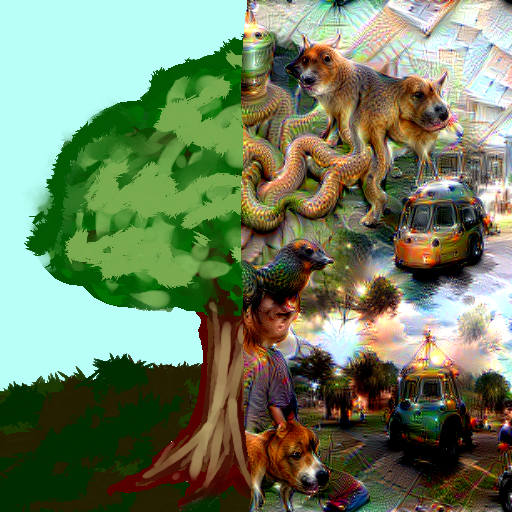
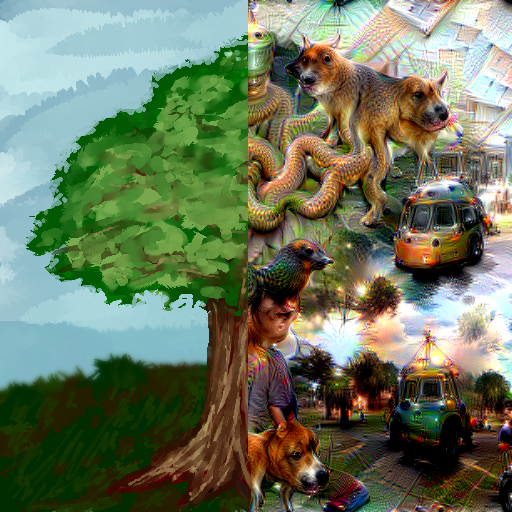
Documentation and examples, minor fixes
- Polished documentation text, filled in missing examples
- Improved manually drawn generator example image
- Minor bugfixes to free selectoin and brush tools, identifying more
  issues to fix

Changed region(s): [[0.0, 0.0, 0.5, 1.0], [0.125, 0.9688, 0.1875, 1.0]]

diff --git a/src/image/brush/qt_paint_brush.py b/src/image/brush/qt_paint_brush.py
@@ -133,7 +133,7 @@ class QtPaintBrush(LayerBrush):
         painter.setOpacity(opacity)
         pen = QPen(color, size, Qt.PenStyle.SolidLine, Qt.PenCapStyle.RoundCap, Qt.PenJoinStyle.RoundJoin)
         painter.setPen(pen)
-        if hardness < 1.0 and round(size * hardness) < size:
+        if hardness < 1.0 and round(size - (size * hardness)) > 0:
             min_size = size * hardness
             size_range = round(size - min_size)
             painter.setCompositionMode(QPainter.CompositionMode.CompositionMode_Source)

diff --git a/src/tools/free_selection_tool.py b/src/tools/free_selection_tool.py
@@ -96,6 +96,7 @@ class FreeSelectionTool(BaseTool):
         layer_pos = layer.transformed_bounds.topLeft()
         bounds = polygon.boundingRect().toAlignedRect()
         bounds.translate(-layer_pos.x(), -layer_pos.y())
+        bounds = bounds.intersected(layer.bounds)
         with layer.borrow_image(bounds) as selection_img:
             painter = QPainter(selection_img)
             if self._clearing:

diff --git a/README.md b/README.md
@@ -1,62 +1,68 @@
 ![IntraPaint_banner.jpg](./resources/IntraPaint_banner.jpg)  
 
-IntraPaint is a free and open source image editor with integrated AI image generation support, for Linux, Windows, and macOS.
+**IntraPaint** is a free and open-source image editor for desktop PCs. It combines standard digital painting
+and image editing tools with advanced AI-based features, including image generation and inpainting. IntraPaint bridges
+the gap between traditional digital editing and AI-driven workflows, combining the precision of manual techniques with
+the efficiency of AI tools for a more seamless creative process. IntraPaint is available for Windows and Linux. macOS
+support is possible with manual setup and compilation.
 
-## Goals:
-- Combine standard image editing and digital painting tools with AI image generation and inpainting tools. Make it
-  easier for established artists to integrate AI into their workflow, and for AI enthusiasts to adopt more traditional
-  image editing tools and gain finer control over the images they create.
+## Getting Started with IntraPaint:
 
-## Features:
+
+|        ![example-1.png](./examples/example-1.png)        |      ![example-2.png](./examples/example-2.png)       | 
+|:--------------------------------------------------------:|:-----------------------------------------------------:| 
+|       *1. Draw and paint with conventional tools*        | *2. Select areas for AI editing and provide a prompt* |
+
+
+| ![example-3.png](./examples/example-3.png) | ![example-4.png](./examples/example-4.png) | 
+|:------------------------------------------:|:------------------------------------------:| 
+|     *3. Choose from generated options*     |     *4. Refine and repeat as needed.*      |
+
+
+## Key Features:
 
 ### AI image generation features:
-- Uses Stable-Diffusion, either running on the same machine or remotely over a network connection, via the --api option
-  in either [Forge WebUI](https://github.com/lllyasviel/stable-diffusion-webui-forge) or the [Automatic1111 WebUI](https://github.com/AUTOMATIC1111/stable-diffusion-webui).
-- All AI features areSupports either completely new image generation (text to image), generating variant images (image to image), or 
-  precise detail editing (inpainting), guided by natural-language descriptive prompts and various configurable
-  parameters.
-- Use ControlNet modules for more advanced AI guidance features (depth mapping, recoloring, pose duplication, etc.)
-- Support for AI upscaling using stable-diffusion + ControlNet or through a bunch of different alternate models.
-- Image interrogation to generate a prompt to describe any image.
+- Integrates with Stable-Diffusion, running locally or remotely (via API) using [Forge WebUI](https://github.com/lllyasviel/stable-diffusion-webui-forge) or [Automatic1111 WebUI](https://github.com/AUTOMATIC1111/stable-diffusion-webui).
+- Supports **text-to-image**, **image-to-image**, and **inpainting**, allowing users to generate new images, refine existing ones, or apply specific edits using natural language prompts.
+- Advanced AI guidance through **ControlNet modules**, enabling features like depth mapping, recoloring, pose replication, and more.
+- **AI upscaling** via Stable-Diffusion + ControlNet or other specialized models.
 
 
-### Standard raster editing features:
-- All AI features are optional, IntraPaint still functions like standard image editing software when AI is disabled.
-- Full-featured layer stack, with support for all the usual features: layer transformations, layer groups, advanced
-  composition and blending modes, etc.
-- Digital painting using the [libmypaint](https://github.com/mypaint/libmypaint) brush engine, full support for drawing
-  tablets.
-- All the usual tools you'd expect: selection, text editing, paint bucket, filters, etc.
+### Traditional Image Editing Tools:
+- Full-featured layer stack with advanced blending modes, layer groups, and transformations.
+- Digital painting capabilities powered by the [libmypaint](https://github.com/mypaint/libmypaint) brush engine, with
+- full support for pressure-sensitive drawing tablets.
+- Standard tools such as selection, text editing, paint bucket, filters, and more are available even when AI features are disabled.
 
-### What can you do with this combination?
-Benefit from partial automation: you draw the parts that you want to draw, let image generation take care of the parts
-that you don't want to do. Quickly explore alternatives.
+### Why Combine AI and Traditional Tools?
+- Automate repetitive tasks: Focus on drawing what matters to you, and let the AI handle the rest.
+- Explore creative alternatives: Quickly iterate on multiple ideas without manually creating each variation.
 
-|                                                                                                                                                   |                                                                                                                                                                                       |                                                                                                                |
-|---------------------------------------------------------------------------------------------------------------------------------------------------|---------------------------------------------------------------------------------------------------------------------------------------------------------------------------------------|----------------------------------------------------------------------------------------------------------------|
-| Quickly refine sketches                                                                                                                           | Clean up and color line art                                                                                                                                                           | "Stanford bunny, \[text in image frame below\]"                                                                 |
-|![An extremely rough sketch of a person walking down a road under a sunset on the left, a more detailed AI-refined version on the right.](./examples/sketch_example.jpg)  | ![A black and white stylized drawing of a dense city, animated to transition to a colored version of the same image](examples/color_example.webp)                                     | ![Animation showing a simple drawing alternating between many different styles](./examples/style_example.webp) |
-| "A small figure walking down a road under a massive cloudy sky, billowing clouds, sunset, fiery fields, god rays, sun"                            | "organic sprawling colorful city, ultra dense, gigantic twisted textured detailed realistic climbing vines, pareidolia, stained glass, blue sky, billowing clouds, runes and symbols" | Experiment with alternate styles.                                                                              |
+|                                                                                                                                                                          |                                                                                                                                                                                               |                                                                                                                |
+|--------------------------------------------------------------------------------------------------------------------------------------------------------------------------|-----------------------------------------------------------------------------------------------------------------------------------------------------------------------------------------------|----------------------------------------------------------------------------------------------------------------|
+| Quickly refine sketches                                                                                                                                                  | Clean up and color line art                                                                                                                                                                   | Experiment with different styles.                                                                              |
+| ![An extremely rough sketch of a person walking down a road under a sunset on the left, a more detailed AI-refined version on the right.](./examples/sketch_example.jpg) | ![A black and white stylized drawing of a dense city, animated to transition to a colored version of the same image](examples/color_example.webp)                                             | ![Animation showing a simple drawing alternating between many different styles](./examples/style_example.webp) |
+| Prompt: "A small figure walking down a road under a massive cloudy sky, billowing clouds, sunset, fiery fields, god rays, sun"                                           | Prompt: "organic sprawling colorful city, ultra dense, gigantic twisted textured detailed realistic climbing vines, pareidolia, stained glass, blue sky, billowing clouds, runes and symbols" | Prompt: "Stanford bunny, \[text in image frame above\]"                                                        |
 
-Control image generation visually. No complex prompts needed, scribble in rough art, describe it briefly, and let Stable-Diffusion figure out the details you want from visual cues.
+Control image generation visually by providing rough sketches and brief descriptions, letting Stable-Diffusion handle the rest.
 
 Prompt: "on the left, a red lizard with a yellow hat standing on a green pillar in an orange desert under a blue sky, looking at a silver robot in a cowboy hat on the right "
 
 |                                                                                                                              |                                                                                                                                                                      |                                                                                                                          |
 |------------------------------------------------------------------------------------------------------------------------------|----------------------------------------------------------------------------------------------------------------------------------------------------------------------|--------------------------------------------------------------------------------------------------------------------------|
 | ![Fully AI generated image of a robot and a lizard in a desert. The image is oddly arranged.](./examples/comp_example_1.jpg) | ![A simple human-made digital drawing of the lizard and robot. Details are rough, but the image is much more accurate to the prompt.](./examples/comp_example_2.jpg) | ![An image combining the detail of the first example with the composition of the second.](./examples/comp_example_3.jpg) |
-| AI does okay with details, but struggles with combining them correctly in complex arrangements.                              | A human artist can easily get the composition right, but similar details require lots of time and practice.                                                          | IntraPaint drawing plus AI inpainting gives you the best of both with minimal hassle.                                    |
+| AI-generated image showcasing polished details but with spatial confusion between the lizard and the robot, blending traits and causing visual mixups between subjects.         | A manually drawn scene, offering clear and precise subject placement with no mixups, but lacking the fine detail and polish of the AI-generated version.                                                        | A hybrid approach, combining manual precision with AI enhancements for detailed, coherent subjects and a balanced result  |
 
-Generate images with levels of detail and precision far higher than unguided image generation allows.
+Generate images with greater detail and precision by using guided inpainting to enhance specific areas.
 
-|                                                                            |                                                  |                                                |
-|----------------------------------------------------------------------------|--------------------------------------------------|------------------------------------------------|
-| IMG: Huge empty canvas, partial landscape over tiles                       | GIF: refining details, selecting generated items | GIF: Sweep from low to high detail             |
-| Generate images piece by piece to avoid image generation size restrictions | Use guided inpainting to refine small details    | Final results are dramatically higher quality. |
+|                                                                                                                                                          |                                                                                                                                                                    |                                                                                                                                                  |
+|----------------------------------------------------------------------------------------------------------------------------------------------------------|--------------------------------------------------------------------------------------------------------------------------------------------------------------------|--------------------------------------------------------------------------------------------------------------------------------------------------|
+| ![Faded image of a city landscape with incongruous library elements, incomplete, visible within the IntraPaint UI.](./examples/example-modularity-1.png) | ![Close-up detail from the previous image, animated, poor quality distorted buildings become polished and smoothly rendered](./examples/example-modularity-2.webp) | ![Image of the same city with incongruous library elements, now completed, displayed in the IntraPaint UI.](./examples/example-modularity-3.png) |
+| Avoid size restrictions by generating images in segments                                                                            | Refine small details with guided inpainting                                                                                                                  | Final results are dramatically higher quality.                                                                                                   |
 
 
 ### More examples:
-All the images below were created using IntraPaint:
+All images below were created using IntraPaint:
 <table>
     <tr>
         <td colspan="1" rowspan="1">
@@ -118,14 +124,14 @@ All the images below were created using IntraPaint:
 </table>
 
 
-### Setup and install:
+### Installation and Setup:
 
 #### Pre-packaged builds:
-Windows and Linux users (x86_64) can download a pre-packaged version of IntraPaint from the releases page:
-- Windows: https://github.com/centuryglass/IntraPaint/releases/download/v0.2.0-alpha/IntraPaint.exe
-- Linux: https://github.com/centuryglass/IntraPaint/releases/download/v0.2.0-alpha/IntraPaint-linux
+Pre-compiled versions for x86_64 Linux and Windows are available on the [releases page](Pre-compiled versions for x86_64 Linux and Windows are available on the releases page.).
+- Windows: [IntraPaint.exe](https://github.com/centuryglass/IntraPaint/releases/download/v0.2.0-alpha/IntraPaint.exe)
+- Linux: [IntraPaint-linux](https://github.com/centuryglass/IntraPaint/releases/download/v0.2.0-alpha/IntraPaint-linux)
 
-This version requires no setup or installation in order to use non-AI features, just run it directly.
+No installation is required to use non-AI features. Just run the executable directly.
 
 #### Install from GitHub:
 On other systems, you will need to use git and python to install IntraPaint.  Make sure you have git, python 3.9 or
@@ -141,11 +147,11 @@ python IntraPaint.py
 ```
 
 
-#### Stable-Diffusion setup:
-For AI image generation features, you will need to install a Stable-Diffusion client (either [Forge WebUI](https://github.com/lllyasviel/stable-diffusion-webui-forge) or the
-[Automatic1111 WebUI](https://github.com/AUTOMATIC1111/stable-diffusion-webui)), and run it with the `--api` flag.  The easiest way to do this is to install [Stability Matrix](https://github.com/LykosAI/StabilityMatrix).
+#### AI Setup (Stable-Diffusion):
+To use AI features, you'll need a running Stable-Diffusion client (either [Forge WebUI](https://github.com/lllyasviel/stable-diffusion-webui-forge) or the
+[Automatic1111 WebUI](https://github.com/AUTOMATIC1111/stable-diffusion-webui)) with API access enabled.  The simplest method for getting this is through. [Stability Matrix](https://github.com/LykosAI/StabilityMatrix).
 
-1. Install the appropriate version of Stability Matrix for your system:
+1. Download and install Stability Matrix for your system:
    * [Windows 10, 11](https://github.com/LykosAI/StabilityMatrix/releases/latest/download/StabilityMatrix-win-x64.zip)
    * [Linux AppImage](https://github.com/LykosAI/StabilityMatrix/releases/latest/download/StabilityMatrix-linux-x64.zip)
    * [Arch Linux AUR](https://aur.archlinux.org/packages/stabilitymatrix)
@@ -158,20 +164,20 @@ For AI image generation features, you will need to install a Stable-Diffusion cl
 
 ### Guides and tutorials
 
-### IntraPaint-specific:
-- [Tools](./doc/tools.md): A brief overview of IntraPaint's image editing tools.
-- [Stable-Diffusion Controls](./doc/stable-diffusion.md): Descriptions of all Stable-Diffusion controls available in IntraPaint.
+### IntraPaint Documentation:
+- [Tools Overview](./doc/tools.md)
+- [Stable-Diffusion Controls](./doc/stable-diffusion.md)
 
-### Stable-Diffusion, ControlNet:
-I didn't create any of these resources.
+### Related Resources
+These are third-party resources that I've found useful, I did not create or contribute to them.
 
-- [The Ultimate Guide to ControlNet](https://education.civitai.com/civitai-guide-to-controlnet/#what-do-the-models-do): An extremely useful overview of ControlNet's vast capabilities.
+- [The Ultimate Guide to ControlNet](https://education.civitai.com/civitai-guide-to-controlnet/#what-do-the-models-do): An in-depth overview of ControlNet's capabilities.
 - [Stable Diffusion Samplers: A Comprehensive Guide](https://stable-diffusion-art.com/samplers/): Explains what the difference between Euler A/DPM++/UniPC/etc. is, and why you might want to choose any particular option.
 - [Automatic1111 WebUI Features](https://github.com/AUTOMATIC1111/stable-diffusion-webui/wiki/Features): All prompt-related features listed here will work within IntraPaint. 
 
 ### Help and Troubleshooting:
 
-#### Q: Why can't I see the brush tool?
+#### Q: Why isn't the brush tool visible?
 
 On systems other than 64-bit Linux and Windows, the brush tool may not work, because you will need a system-specific
 build of the libmypaint brush engine library.  If pre-packaged libmypaint versions can't be used, IntraPaint will try
@@ -181,7 +187,6 @@ If you need help locating libmypaint files for a particular system, open a GitHu
 #### Q: Where are the ControlNet options?
 
 The ControlNet panel only appears if the WebUI backend has a working ControlNet extension installed with API support.
-Unfortunately, this requires some extra configuration in both Forge and Automatic1111 right now.
 
 *If using WebUI Forge*:  The most recent version of the Forge WebUI (as of 8/30/24) does not have a working ControlNet
 API. Use Git to revert to commit `bfee03d8`, or install the [v0.0.17 release](https://github.com/lllyasviel/stable-diffusion-webui-forge/releases/download/previous/webui_forge_cu121_torch21_f0017.7z).
@@ -189,16 +194,9 @@ API. Use Git to revert to commit `bfee03d8`, or install the [v0.0.17 release](ht
 *If using the Automatic1111 WebUI*: The ControlNet panel only appears after you've installed the sd-webui-controlnet 
 extension.  Installation instructions and links to required ControlNet model files can be found [here](https://github.com/Mikubill/sd-webui-controlnet).
 
-#### Q: How do I use alternate Stable-Diffusion models?
-
-Any Stable-Diffusion model supported by the WebUI will work with IntraPaint.  If you drag and drop a Stable-Diffusion
-model file into the WebUI Stable-Diffusion model directory, you will be able to load it in the IntraPaint settings
-
 ### Alternatives:
-- The [Krita AI Plugin](https://github.com/Acly/krita-ai-diffusion) has almost the same set of goals as this project, and accomplishes them admirably. If you already use [Krita](https://krita-artists.org/) or [ComfyUI](https://github.com/comfyanonymous/ComfyUI), this might be a better fit for you.  This is the only item on this list that I've personally tested.
+- The [Krita AI Plugin](https://github.com/Acly/krita-ai-diffusion) shares many of the same goals as IntraPaint and executes them very well. If you already use [Krita](https://krita-artists.org/) or [ComfyUI](https://github.com/comfyanonymous/ComfyUI), this could be a great option for you.  This is the only item on this list that I've personally tested.
 - Several plugins exist for [GIMP](https://www.gimp.org/) with similar functionality:
   * [Stable-Gimpfusion](https://github.com/ArtBIT/stable-gimpfusion)
   * [gimp-stable-diffusion](https://github.com/blueturtleai/gimp-stable-diffusion)
   * [Stable Boy](https://github.com/thndrbrrr/gimp-stable-boy)
-
-If you know of any other projects with similar goals that you think are worth mentioning, let me know, and I'll add them to the list.

diff --git a/doc/TODO.md b/doc/TODO.md
@@ -4,9 +4,22 @@
 - Finish README cleanup and examples (< 1 day)
 - Basic workflow tutorials (< 1 day)
 - Final timelapse video (< 5 days)
+- Upscale: make new layer, scale up existing layers
 
 ## More bugs + testing:
 - Double-check lock and parent group lock properly block changes
+- Save fails silently on missing extension, a warning should appear
+- shape type dropdown isn't updating
+- color dialog has no effect on shape tool
+- ctrl shouldn't break tools if you're already dragging
+- Blur filter doing some strange things when trying to blur lineart over alpha, other filters not much better
+- partial hardness plus pressure=size is causing dropped strokes (better min. handling needed?)
+- merge into hidden errors say that the base layer is locked, use different messages for locked and hidden
+- fill tool should be blocked on hidden layers
+- add 'sample merged' option to smudge and filter tools
+- smudge tool: something's not right with small brush strokes
+- when selecting generated imagery tries to insert into a locked layer, an error is shown but the selection is lost
+- SliderSpinbox: spinbox is getting stretched out, most of the space should go to the slider
 
 ## Timelapse video: using latest interface
 Scripted to make use of every tool, in-video text explaining what I'm doing
